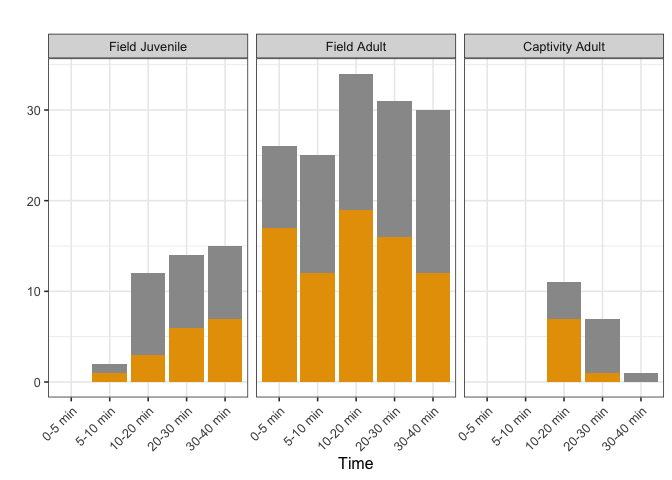
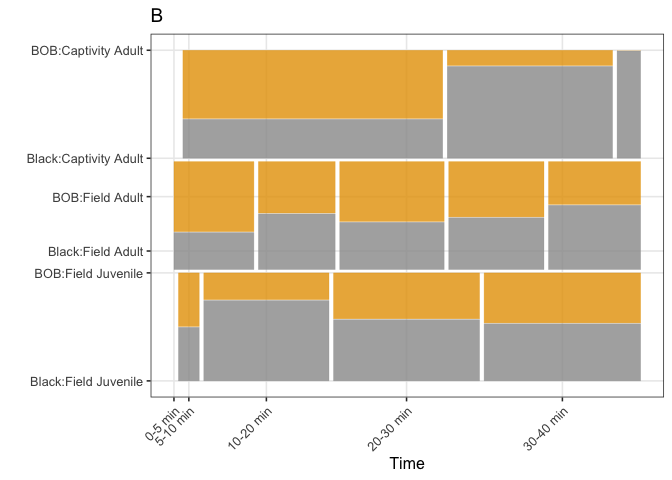
update md

diff --git a/report2.md b/report2.md
@@ -100,7 +100,7 @@ Original choice of plot:
 ``` r
 bp1 <- ggplot(resumen, aes(x=type, y=w_size)) + 
   geom_boxplot()+ facet_wrap(~w_color)+theme(legend.position = "none")+ # dejar la misma escala de spider size
-  labs(title="A",x="Genera", y = "Wasp Size (mm)") +
+  labs(title="A",x="Genera and Wasp Color", y = "Wasp Size (mm)") +
   ylim(c(min(resumen$w_size),max(resumen$s_size))) 
 
 bp2 <- ggplot(resumen, aes(x=s_type, y=s_size)) + 
@@ -117,7 +117,7 @@ Mauricio’s suggestion:
 ``` r
 bp1 <- ggplot(resumen, aes(x=w_color, y=w_size)) + 
   geom_boxplot()+ facet_wrap(~type, ncol=4)+theme(legend.position = "none")+ # dejar la misma escala de spider size
-  labs(title="A",x="Genera", y = "Wasp Size (mm)") +
+  labs(title="A",x="Wasp Color", y = "Wasp Size (mm)") +
   ylim(c(min(resumen$w_size),max(resumen$s_size))) 
 
 bp2 <- ggplot(resumen, aes(x=s_type, y=s_size)) + 
@@ -276,6 +276,21 @@ statistically significant difference when included in the full model. It
 should however be noted that field-caught adults only attacked black
 wasps, and adults reared in captivity avoided only BOB wasps.
 
+``` r
+datos_model <- datos_model %>%
+  mutate(h_resp3=recode_factor(h_resp3, "Detect"="Detect",
+                                "Attack"="Attack",
+                                "Avoid"="Avoid"))
+ggplot(data = datos_model) +
+  geom_mosaic(aes(x = product(h_resp3, s_type), 
+                  fill=w_color), 
+              na.rm=TRUE, divider=mosaic("v")) +  
+  #theme(legend.position = "none") +
+  scale_fill_manual(values=c("#999999", "#E69F00")) +labs(x = "Action", title='', y="")
+```
+
+![](report2_files/figure-markdown_github/unnamed-chunk-7-1.png)
+
 ### Timelines (original version)
 
 ``` r
@@ -286,58 +301,52 @@ dat<-datos[datos$h_resp3=="Detect",] %>%
                               "Wild Adult"="Field-Adult",
                               "Adult Captivity"="Captivity-Adult")) 
 
-ggplot(data = dat) +
+ta1<- ggplot(data = dat) +
   geom_mosaic(data=dat,aes(x = product(w_color, time2), 
                            fill=w_color, 
                            conds=product(s_type)), 
               na.rm=TRUE, divider=mosaic("v")) + 
   scale_fill_manual(values=c("#999999", "#E69F00")) +
-  labs(x = "Time", title='', y="")+
+  labs(x = "Time", title='A', y="")+
   theme(legend.position = "none") +
   theme(axis.text.x = element_text(angle = 45, hjust = 1))
-```
 
-![](report2_files/figure-markdown_github/unnamed-chunk-7-1.png)
-
-``` r
 dat<-datos[datos$h_resp3=="Attack",] %>%
   mutate(s_type=recode_factor(s_type,
                               "Wild Juvenile"="Field-Juvenile",
                               "Wild Adult"="Field-Adult",
                               "Adult Captivity"="Captivity-Adult")) 
 
-ggplot(data = dat) +
+ta2<- ggplot(data = dat) +
   geom_mosaic(data=dat,aes(x = product(w_color, time2), 
                            fill=w_color, 
                            conds=product(s_type)), 
               na.rm=TRUE, divider=mosaic("v")) + 
   scale_fill_manual(values=c("#999999", "#E69F00")) +
-  labs(x = "Time", title='', y="")+
+  labs(x = "Time", title='B', y="")+
   theme(legend.position = "none") +
   theme(axis.text.x = element_text(angle = 45, hjust = 1))
-```
 
-![](report2_files/figure-markdown_github/unnamed-chunk-7-2.png)
-
-``` r
 dat<-datos[datos$h_resp3=="Avoid",] %>%
   mutate(s_type=recode_factor(s_type,
                               "Wild Juvenile"="Field-Juvenile",
                               "Wild Adult"="Field-Adult",
                               "Adult Captivity"="Captivity-Adult")) 
 
-ggplot(data = dat) +
+ta3<- ggplot(data = dat) +
   geom_mosaic(data=dat,aes(x = product(w_color, time2), 
                            fill=w_color, 
                            conds=product(s_type)), 
               na.rm=TRUE, divider=mosaic("v")) + 
   scale_fill_manual(values=c("#999999", "#E69F00")) +
-  labs(x = "Time", title='', y="")+
+  labs(x = "Time", title='C', y="")+
   theme(legend.position = "none") +
   theme(axis.text.x = element_text(angle = 45, hjust = 1))
+
+grid.arrange(ta1, ta2, ta3, nrow = 3)
 ```
 
-![](report2_files/figure-markdown_github/unnamed-chunk-7-3.png)
+![](report2_files/figure-markdown_github/unnamed-chunk-8-1.png)
 
 ### Timelines (bar plots option)
 
@@ -350,18 +359,14 @@ dat<-datos[datos$h_resp3=="Detect",] %>%
                               "Adult Captivity"="Captivity-Adult")) %>% 
   group_by(s_type, w_color, time2) %>% summarise(n=n())
 
-  ggplot(data=dat, aes(x=time2, y=n, fill=w_color)) +
+t1<-   ggplot(data=dat, aes(x=time2, y=n, fill=w_color)) +
   geom_bar(stat="identity") + 
   facet_wrap(~s_type, ncol=5)+
   scale_fill_manual(values=c("#999999", "#E69F00")) +
-  labs(x = "Time", title='', y="")+
-  theme(legend.position = "none") +
+  labs(x = "Time", title='A', y="")+
+  #theme(legend.position = "none") +
   theme(axis.text.x = element_text(angle = 45, hjust = 1))
-```
 
-![](report2_files/figure-markdown_github/unnamed-chunk-8-1.png)
-
-``` r
 dat<-datos[datos$h_resp3=="Attack",] %>%
   mutate(s_type=recode_factor(s_type,
                               "Wild Juvenile"="Field-Juvenile",
@@ -369,18 +374,14 @@ dat<-datos[datos$h_resp3=="Attack",] %>%
                               "Adult Captivity"="Captivity-Adult")) %>% 
   group_by(s_type, w_color, time2) %>% summarise(n=n())
 
-  ggplot(data=dat, aes(x=time2, y=n, fill=w_color)) +
+t2<-  ggplot(data=dat, aes(x=time2, y=n, fill=w_color)) +
   geom_bar(stat="identity") + 
   facet_wrap(~s_type, ncol=5)+
   scale_fill_manual(values=c("#999999", "#E69F00")) +
-  labs(x = "Time", title='', y="")+
-  theme(legend.position = "none") +
+  labs(x = "Time", title='B', y="")+
+  #theme(legend.position = "none") +
   theme(axis.text.x = element_text(angle = 45, hjust = 1))
-```
-
-![](report2_files/figure-markdown_github/unnamed-chunk-8-2.png)
-
-``` r
+  
 dat<-datos[datos$h_resp3=="Avoid",] %>%
   mutate(s_type=recode_factor(s_type,
                               "Wild Juvenile"="Field-Juvenile",
@@ -388,16 +389,18 @@ dat<-datos[datos$h_resp3=="Avoid",] %>%
                               "Adult Captivity"="Captivity-Adult")) %>% 
   group_by(s_type, w_color, time2) %>% summarise(n=n())
 
-  ggplot(data=dat, aes(x=time2, y=n, fill=w_color)) +
+t3<-   ggplot(data=dat, aes(x=time2, y=n, fill=w_color)) +
   geom_bar(stat="identity") + 
   facet_wrap(~s_type, ncol=5)+
   scale_fill_manual(values=c("#999999", "#E69F00")) +
-  labs(x = "Time", title='', y="")+
-  theme(legend.position = "none") +
+  labs(x = "Time", title='C', y="")+
+ # theme(legend.position = "none") +
   theme(axis.text.x = element_text(angle = 45, hjust = 1))
+  
+grid.arrange(t1, t2, t3, nrow = 3)
 ```
 
-![](report2_files/figure-markdown_github/unnamed-chunk-8-3.png)
+![](report2_files/figure-markdown_github/unnamed-chunk-9-1.png)
 
 ### Re-coding of BOB for Table 1
 
@@ -414,30 +417,30 @@ datos_model <- datos_model %>%
 with(datos_model, ftable(type,w_color2,h_resp3))
 ```
 
-    ##                        h_resp3 Attack Detect Avoid
+    ##                        h_resp3 Detect Attack Avoid
     ## type         w_color2                             
-    ## Baryconus    Black                  2      3     0
-    ##              PseudoBOB              5      9     1
+    ## Baryconus    Black                  3      2     0
+    ##              PseudoBOB              9      5     1
     ##              BOB                    0      0     0
-    ## Chromoteleia Black                  1     13     4
-    ##              PseudoBOB              0     31     6
+    ## Chromoteleia Black                 13      1     4
+    ##              PseudoBOB             31      0     6
     ##              BOB                    0      0     0
-    ## Macroteleia  Black                  2     15     4
+    ## Macroteleia  Black                 15      2     4
     ##              PseudoBOB              0      0     0
-    ##              BOB                    0      5     0
-    ## Scelio       Black                  3     17     5
-    ##              PseudoBOB              1      6     3
+    ##              BOB                    5      0     0
+    ## Scelio       Black                 17      3     5
+    ##              PseudoBOB              6      1     3
     ##              BOB                    0      0     0
 
 ``` r
 ftable(table(datos_model$w_color2,datos_model$h_resp3))
 ```
 
-    ##            Attack Detect Avoid
+    ##            Detect Attack Avoid
     ##                               
-    ## Black           8     48    13
-    ## PseudoBOB       6     46    10
-    ## BOB             0      5     0
+    ## Black          48      8    13
+    ## PseudoBOB      46      6    10
+    ## BOB             5      0     0
 
 ``` r
 ftable(table(datos_model$h_resp3, 
@@ -447,12 +450,12 @@ ftable(table(datos_model$h_resp3,
 
     ##                         Black BOB
     ##                                  
-    ## Attack Captivity Adult      2   2
-    ##        Field Adult          3   0
-    ##        Field Juvenile       3   4
     ## Detect Captivity Adult      6   5
     ##        Field Adult         23  28
     ##        Field Juvenile      19  18
+    ## Attack Captivity Adult      2   2
+    ##        Field Adult          3   0
+    ##        Field Juvenile       3   4
     ## Avoid  Captivity Adult      0   2
     ##        Field Adult         10   4
     ##        Field Juvenile       3   4
